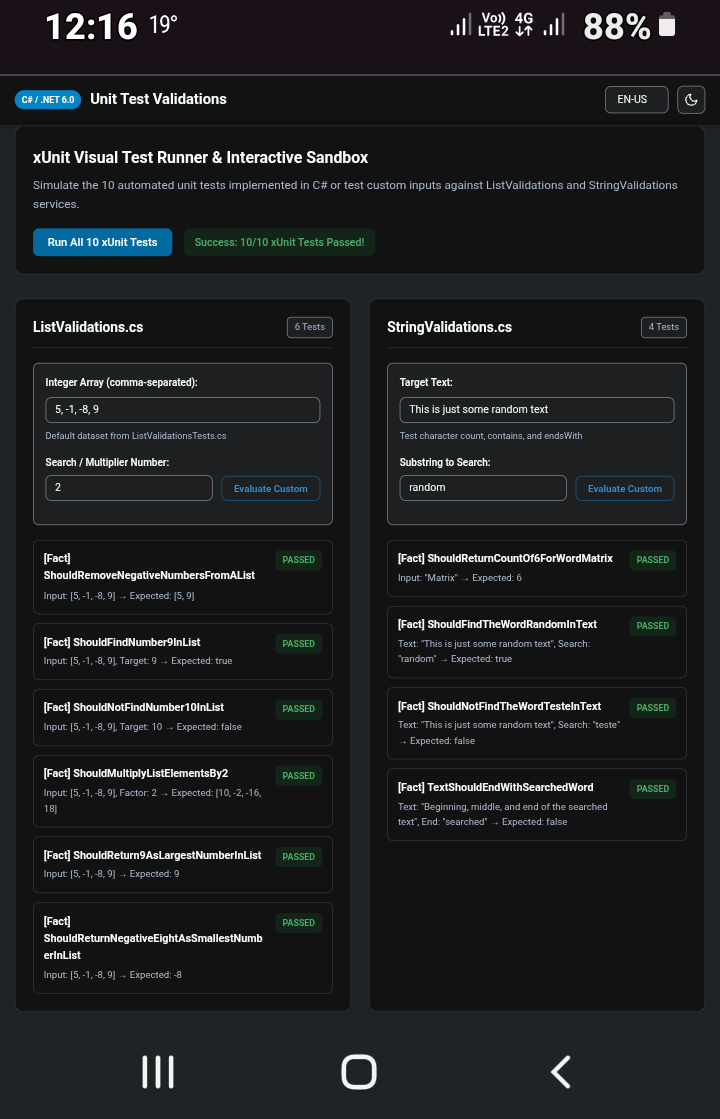
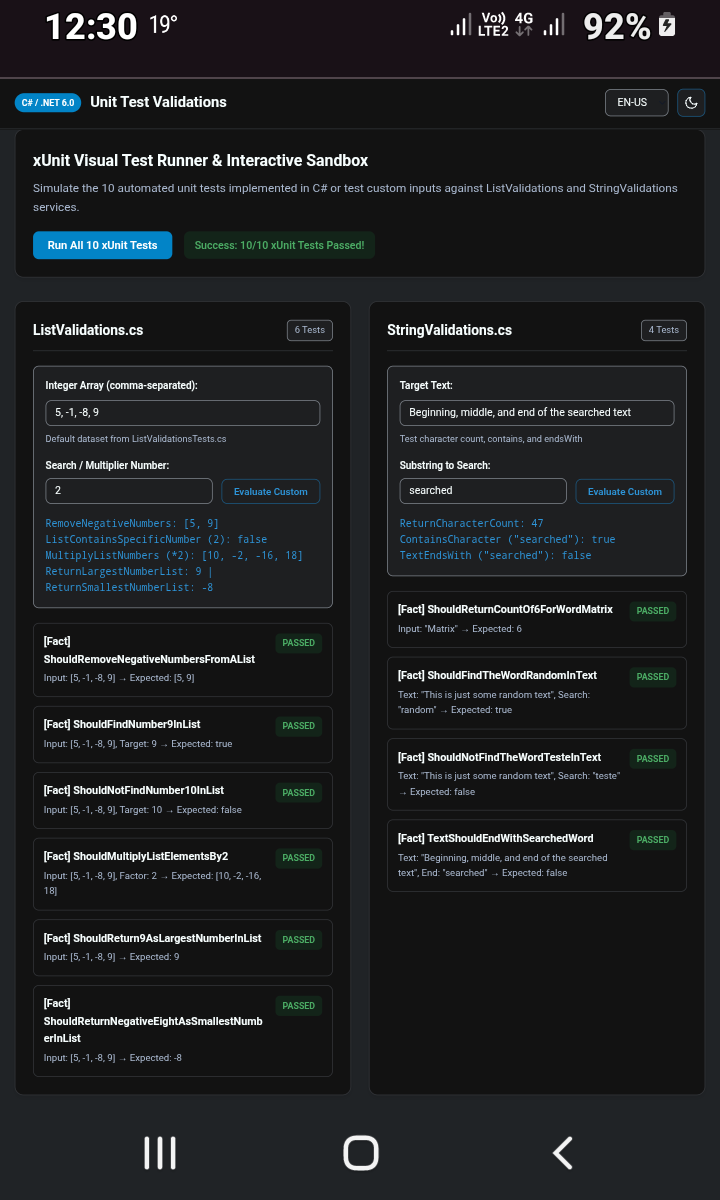
insert a screenshot of the web demo

diff --git a/docs/README.md b/docs/README.md
@@ -33,6 +33,6 @@ This project combines a robust **C# / .NET 6.0** backend tested with **xUnit** a
 2. **Frontend Showcase**:
    Open `index.html` directly in any modern web browser or serve it using VS Code Live Server.
 
-![Screenshot web demo](assets/Screenshot_web_demo.png)
+| ![Screenshot web demo](assets/Screenshot_web_demo_I.png) | ![Screenshot web demo I](assets/Screenshot_web_demo.png) |
 
 [LICENSE](./LICENSE)
